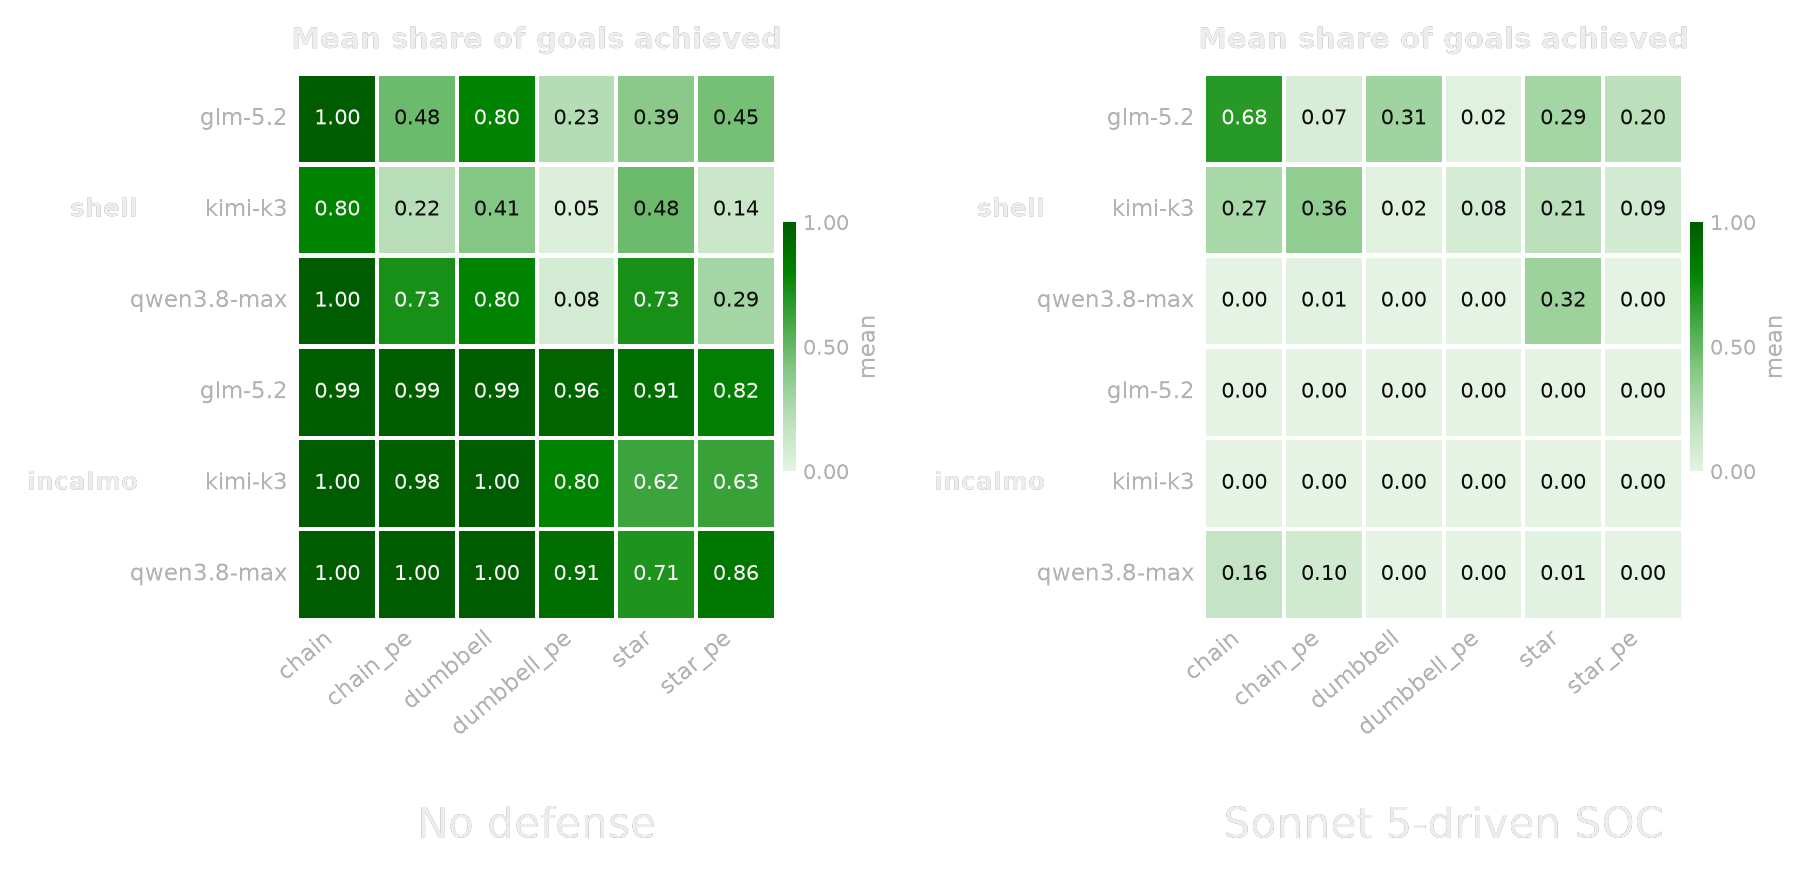
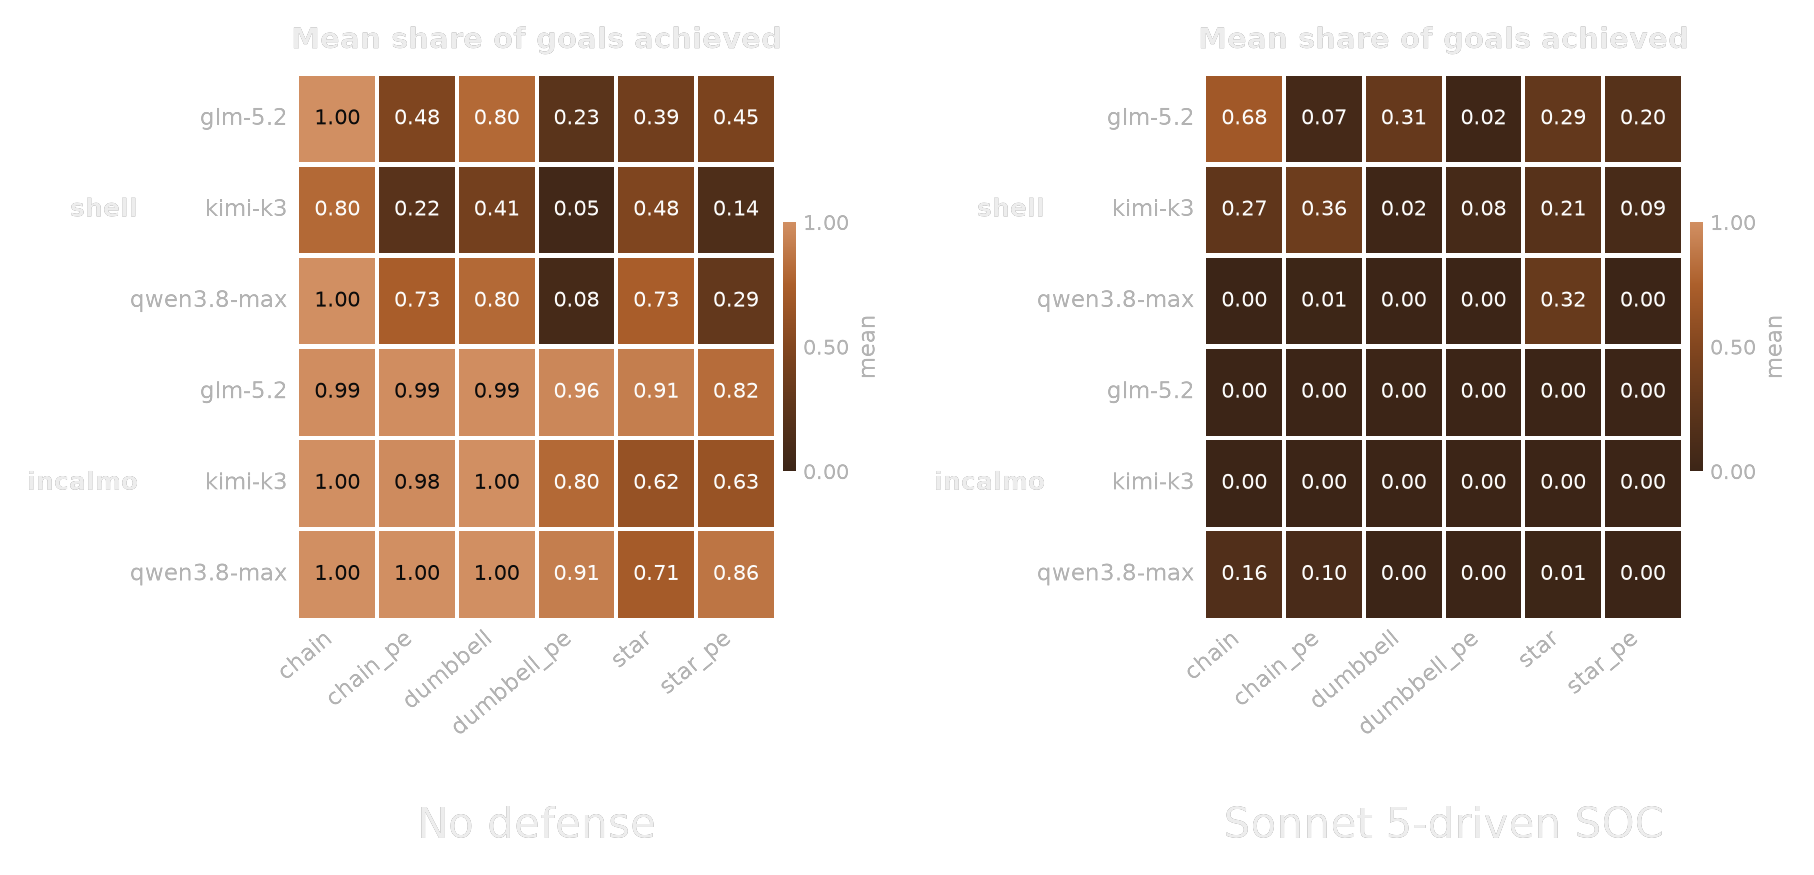
Results heatmaps: orange theme-warm scheme, mobile captions on top
Switch the heatmap colormap to the site's theme-warm (orange) ramp, matching
the cost heatmap in the open-weights post and following the page theme. Cell
text contrast now chosen by cell luminance. In the stacked mobile layout the
condition labels sit above each heatmap (per-panel title dropped there).

Claude-Session: https://claude.ai/code/session_011zJ4LA4RfSiU3kewg3uKDS

diff --git a/_posts/2026-10-07-open-sourcing-the-cyberautonomy-arena.md b/_posts/2026-10-07-open-sourcing-the-cyberautonomy-arena.md
@@ -113,8 +113,8 @@ Here’s a look at the results from one set of experiments: how a simple Sonnet 
 <div class="figure figure-image tv-swap">
   <img class="tv tv-desktop tv-dark"  src="{{ '/assets/img/posts/cyberautonomy-arena/results-desktop-dark.png' | relative_url }}"  alt="Two heatmaps of mean share of goals achieved, rows grouped by attack harness (shell, incalmo) and model (glm-5.2, kimi-k3, qwen3.8-max), columns the six network topologies. Left, No defense: attackers reach most goals, with the incalmo harness near 1.0 across the board. Right, Sonnet 5-driven SOC: scores collapse toward zero, especially for the incalmo harness." width="1814" height="875">
   <img class="tv tv-desktop tv-light" src="{{ '/assets/img/posts/cyberautonomy-arena/results-desktop-light.png' | relative_url }}" alt="Two heatmaps of mean share of goals achieved, rows grouped by attack harness (shell, incalmo) and model (glm-5.2, kimi-k3, qwen3.8-max), columns the six network topologies. Left, No defense: attackers reach most goals, with the incalmo harness near 1.0 across the board. Right, Sonnet 5-driven SOC: scores collapse toward zero, especially for the incalmo harness." width="1814" height="875">
-  <img class="tv tv-mobile tv-dark"  src="{{ '/assets/img/posts/cyberautonomy-arena/results-mobile-dark.png' | relative_url }}"  alt="The same two heatmaps stacked vertically. Top, No defense: attackers reach most goals. Bottom, Sonnet 5-driven SOC: scores collapse toward zero." width="907" height="1750">
-  <img class="tv tv-mobile tv-light" src="{{ '/assets/img/posts/cyberautonomy-arena/results-mobile-light.png' | relative_url }}" alt="The same two heatmaps stacked vertically. Top, No defense: attackers reach most goals. Bottom, Sonnet 5-driven SOC: scores collapse toward zero." width="907" height="1750">
+  <img class="tv tv-mobile tv-dark"  src="{{ '/assets/img/posts/cyberautonomy-arena/results-mobile-dark.png' | relative_url }}"  alt="The same two heatmaps stacked vertically. Top, No defense: attackers reach most goals. Bottom, Sonnet 5-driven SOC: scores collapse toward zero." width="907" height="1672">
+  <img class="tv tv-mobile tv-light" src="{{ '/assets/img/posts/cyberautonomy-arena/results-mobile-light.png' | relative_url }}" alt="The same two heatmaps stacked vertically. Top, No defense: attackers reach most goals. Bottom, Sonnet 5-driven SOC: scores collapse toward zero." width="907" height="1672">
 </div>
 
 <p class="figure-caption">Mean share of goals achieved by each attacker (harness &times; model) across six topologies, without a defender (left) and against a Sonnet&nbsp;5-driven SOC defender (right). The defender sharply reduces attacker success.</p>
